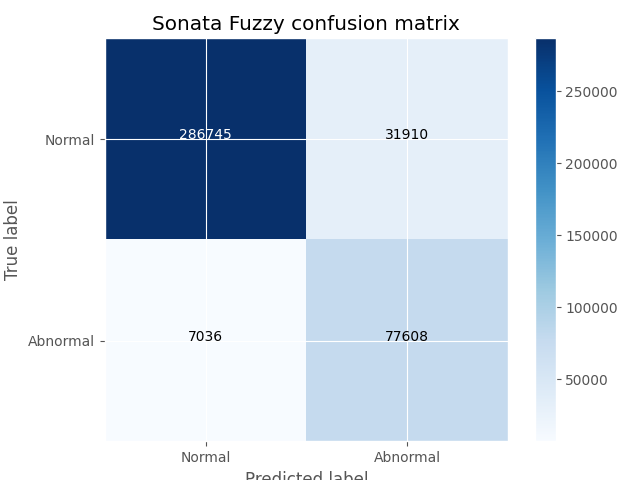
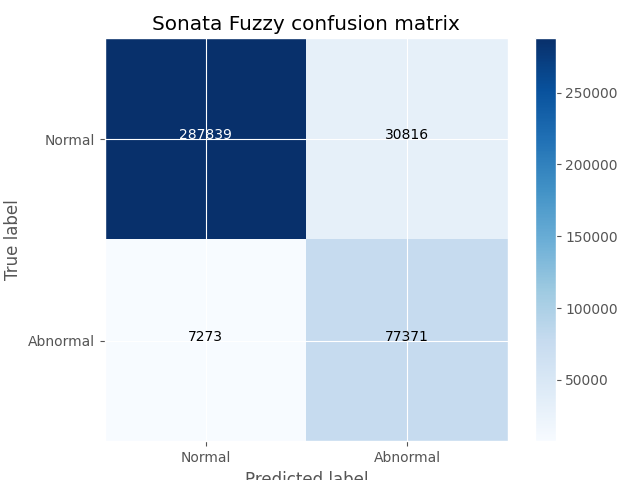
Add Data Change

diff --git a/MainTesting.py b/MainTesting.py
@@ -7,8 +7,6 @@ import numpy as np # for numerical computation
 from matplotlib import pyplot as plt, style # for ploting
 from sklearn.metrics import accuracy_score, fbeta_score, precision_score, recall_score, confusion_matrix # for evaluation
 from scipy.stats import multivariate_normal
-from sklearn import tree
-from sklearn.datasets import load_iris
 from sklearn.tree import DecisionTreeClassifier, plot_tree
 
 style.use('ggplot')
@@ -31,6 +29,36 @@ testing_packet = {
     'flag': []
 }
 
+'''
+training_packet = {
+    'timestamp': [],
+    'canid': [],
+    'datalen': [],
+    'data1': [],
+    'data2': [],
+    'data3': [],
+    'data4': [],
+    'data5': [],
+    'data6': [],
+    'data7': [],
+    'data8': [],
+    'flag': []
+}
+testing_packet = {
+    'timestamp': [],
+    'canid': [],
+    'datalen': [],
+    'data1': [],
+    'data2': [],
+    'data3': [],
+    'data4': [],
+    'data5': [],
+    'data6': [],
+    'data7': [],
+    'data8': [],
+    'flag': []
+}
+'''
 
 # read csv file by path, filename
 # code for save data will be add later
@@ -46,20 +74,31 @@ def read_file(path, filename, packet):
                 print(" [-] debugging... line " + str(cnt) + " in  " + filename + " is empty")
 
             elif row[-1] == 'R' or row[-1] == 'T':
+
                 if cnt == 0:
                     before_timestamp = float(row[0])
+
                 cnt += 1
                 datalen = int(row[2])
-                data = 0
 
                 msg = []
                 if row[3].count(" "):
                     msg = row[3].split(" ")
                 else:
-                    msg=row[3:-1]
+                    msg = row[3:-1]
+
+                data = 0
                 for idx in range(datalen):
                     data *= 0x100
                     data += int(msg[idx], 16)
+
+                '''
+                data = []
+                for i in range(8-datalen):
+                    data.append(0)
+                for idx in range(datalen):
+                    data.append(int(msg[idx], 16))
+                '''
 
                 timestamp = (float(row[0]) - before_timestamp) * 1000000
                 canid = int(row[1], 16)
@@ -75,6 +114,16 @@ def read_file(path, filename, packet):
                 packet['canid'].append(canid)
                 packet['datalen'].append(datalen)
                 packet['data'].append(data)
+                '''
+                packet['data1'].append(data[0])
+                packet['data2'].append(data[1])
+                packet['data3'].append(data[2])
+                packet['data4'].append(data[3])
+                packet['data5'].append(data[4])
+                packet['data6'].append(data[5])
+                packet['data7'].append(data[6])
+                packet['data8'].append(data[7])
+                '''
                 packet['flag'].append(flag)
 
                 before_timestamp = float(row[0])
@@ -155,7 +204,7 @@ def decisiontree_tec(train, valid, test, car, attack):
     test_X = test.drop(['flag'], axis=1)
     test_Y = test['flag']
 
-    clf = tree.DecisionTreeClassifier(random_state=0)
+    clf = DecisionTreeClassifier(random_state=0)
     clf.fit(train_X, train_Y)
 
     preds = clf.predict(test_X)
@@ -175,19 +224,18 @@ def decisiontree_tec(train, valid, test, car, attack):
 
 def train2test(car, attack):
     """" training from a file, then testing """
-
     training_dataset = pd.DataFrame(training_packet)
-    training_dataset['timestamp'] = np.log(training_dataset['timestamp'] + 1)
-    training_dataset['canid'] = np.log(training_dataset['canid'] + 1)
-    training_dataset['data'] = np.log(training_dataset['data'] + 1)
+    # training_dataset['timestamp'] = np.log(training_dataset['timestamp'] + 1)
+    # training_dataset['canid'] = np.log(training_dataset['canid'] + 1)
+    # training_dataset['data'] = np.log(training_dataset['data'] + 1)
 
     training_normal = training_dataset[training_dataset['flag'] == 0]
     training_abnormal = training_dataset[training_dataset['flag'] == 1]
 
     testing_dataset = pd.DataFrame(testing_packet)
-    testing_dataset['timestamp'] = np.log(testing_dataset['timestamp'] + 1)
-    testing_dataset['canid'] = np.log(testing_dataset['canid'] + 1)
-    testing_dataset['data'] = np.log(testing_dataset['data'] + 1)
+    # testing_dataset['timestamp'] = np.log(testing_dataset['timestamp'] + 1)
+    # testing_dataset['canid'] = np.log(testing_dataset['canid'] + 1)
+    # testing_dataset['data'] = np.log(testing_dataset['data'] + 1)
 
     testing_normal = testing_dataset[testing_dataset['flag'] == 0]
     testing_abnormal = testing_dataset[testing_dataset['flag'] == 1]
